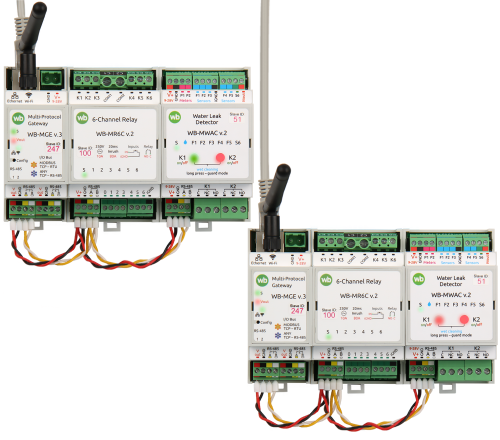
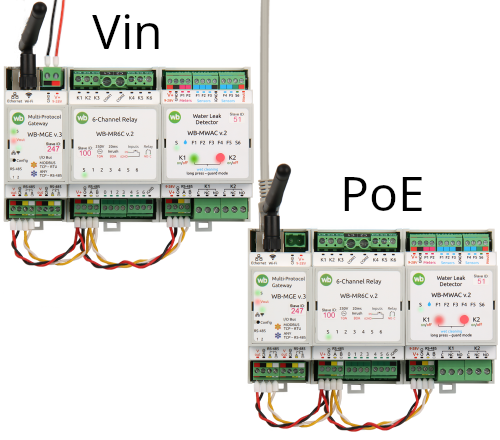
Исправил картинку и добавил новую фоточку и заменили названия файлов с кириллицы на латиницу (#337)
* Исправил картинку и добавил новую фоточку.

* Переименовала названия файлов схем, все на латинице

* Внесла коррекцию в название файла

---------

Changed region(s): [[0.03, 0.0, 0.15, 0.2068], [0.69, 0.3841, 0.84, 0.5023], [0.18, 0.0295, 0.33, 0.1182]]

diff --git a/content/en/catalog/wb-mge-v3.md b/content/en/catalog/wb-mge-v3.md
@@ -12,7 +12,8 @@ images: [
   ["wb-mge-v3/wb-mge-v3-main.png"],
   ["wb-mge-v3/wb-mge-v3-top.png"],
   ["wb-mge-v3/wb-mge-v3-pcb-1.png"],
-  ["wb-mge-v3/wb-mge-v3-pcb-2.png"]
+  ["wb-mge-v3/wb-mge-v3-pcb-2.png"],
+  ["wb-mge-v3/wb-mge-v3-with-box.jpg"]
 ]
 use_cases: []
 ---
@@ -65,7 +66,7 @@ For each RS‑485 port you can set its TCP port and mode, then poll it over any 
 
 ::product-section{title="Termination and Failsafe Bias on RS‑485 Ports"}
 :photo{
-  src="wb-mge-v3/3_WB-MGEv3_Терминатор_ENG.png"
+  src="wb-mge-v3/3_WB-MGEv3_Terminator_ENG.png"
   width="500px"
   float="right"
 }
@@ -114,7 +115,7 @@ All this enables compact installations without extra terminal blocks — and, wh
 
 ::product-section{title="Indicators"}
 :photo{
-  src="wb-mge-v3/6_WB-MGEv3_Индикация_ENG.png"
+  src="wb-mge-v3/6_WB-MGEv3_Indication_ENG.png"
   width="500px"
   float="right"
 }
@@ -132,7 +133,7 @@ They let you assess the module state without opening the web interface.
 ::product-section{title="Web Interface for Reset/Configuration"}
 
 :photo{
-  src="wb-mge-v3/7_WB-MGEv3_Веб-UI_ENG.png"
+  src="wb-mge-v3/7_WB-MGEv3_Web-UI_ENG.png"
   float="right"
   width="500px"
 }
@@ -146,7 +147,7 @@ If WB‑MGE v.3 is connected to one of the network interfaces of a Wiren Board c
 ::product-section{title="Fast Modbus Support"}
 
 :photo{
-  src="wb-mge-v3/8_WB-MGEv3_Быстрый Modbus_ENG.png"
+  src="wb-mge-v3/8_WB-MGEv3_Fast_Modbus_ENG.png"
   float="right"
   width="500px"
 }
@@ -163,7 +164,7 @@ WB‑MGE v.3 supports Fast Modbus in all modes: **transparent gateway** and **Mo
 ::product-section{title="Reset to Defaults and Factory Mode"}
 
 :photo{
-  src="wb-mge-v3/9_WB-MGEv3_Сброс_ENG.png"
+  src="wb-mge-v3/9_WB-MGEv3_Reset_ENG.png"
   float="right"
   width="500px"
 }
@@ -177,7 +178,7 @@ For edge cases when the firmware cannot boot, **Factory mode** is available to r
 ::product-section{title="Firmware Updates"}
 
 :photo{
-  src="wb-mge-v3/10_WB-MGEv3_Обновление_ENG.png"
+  src="wb-mge-v3/10_WB-MGEv3_Update_ENG.png"
   float="right"
   width="500px"
 }

diff --git a/content/ru/catalog/wb-mge-v3.md b/content/ru/catalog/wb-mge-v3.md
@@ -12,7 +12,8 @@ images: [
   ["wb-mge-v3/wb-mge-v3-main.png"],
   ["wb-mge-v3/wb-mge-v3-top.png"],
   ["wb-mge-v3/wb-mge-v3-pcb-1.png"],
-  ["wb-mge-v3/wb-mge-v3-pcb-2.png"]
+  ["wb-mge-v3/wb-mge-v3-pcb-2.png"],
+  ["wb-mge-v3/wb-mge-v3-with-box.jpg"]
 ]
 video: [
   ["https://peertube.wirenboard.com/w/dWoKUA1staBV8X6sPmRwfo"],
@@ -69,7 +70,7 @@ use_cases: []
 
 ::product-section{title="Терминаторы и failsafe bias на портах RS-485"}
 :photo{
-  src="wb-mge-v3/3_WB-MGEv3_Терминатор_RU.png"
+  src="wb-mge-v3/3_WB-MGEv3_Terminator_RU.png"
   width="500px"
   float="right"
 }
@@ -119,7 +120,7 @@ use_cases: []
 
 ::product-section{title="Индикация"}
 :photo{
-  src="wb-mge-v3/6_WB-MGEv3_Индикация_RU.png"
+  src="wb-mge-v3/6_WB-MGEv3_Indication_RU.png"
   width="500px"
   float="right"
 }
@@ -137,7 +138,7 @@ use_cases: []
 ::product-section{title="Веб-интерфейс для настройки"}
 
 :photo{
-  src="wb-mge-v3/7_WB-MGEv3_ВебUI_RU.png"
+  src="wb-mge-v3/7_WB-MGEv3_WebUI_RU.png"
   float="right"
   width="500px"
 }
@@ -151,7 +152,7 @@ use_cases: []
 ::product-section{title="Поддержка Быстрого Modbus"}
 
 :photo{
-  src="wb-mge-v3/8_WB-MGEv3_Быстрый Modbus_RU.png"
+  src="wb-mge-v3/8_WB-MGEv3_Fast_Modbus_RU.png"
   float="right"
   width="500px"
 }
@@ -168,7 +169,7 @@ WB-MGE v.3 поддерживает Быстрый Modbus во всех режи
 ::product-section{title="Сброс настроек и режим Factory"}
 
 :photo{
-  src="wb-mge-v3/9_WB-MGEv3_Сброс_RU.png"
+  src="wb-mge-v3/9_WB-MGEv3_Reset_RU.png"
   float="right"
   width="500px"
 }
@@ -182,7 +183,7 @@ WB-MGE v.3 поддерживает Быстрый Modbus во всех режи
 ::product-section{title="Обновление прошивки"}
 
 :photo{
-  src="wb-mge-v3/10_WB-MGEv3_Обновление_RU.png"
+  src="wb-mge-v3/10_WB-MGEv3_Update_RU.png"
   float="right"
   width="500px"
 }
